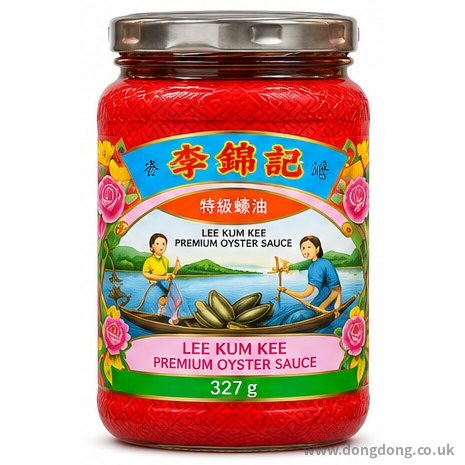
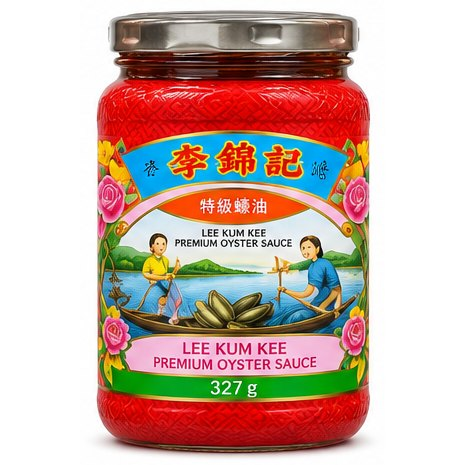
李锦记旧庄特级蚝油 327g 换实拍挤瓶图，补中英文品牌
Claude-Session: https://claude.ai/code/session_01EapkdAZuY1J5DZKGNmtVd8

Changed region(s): [[0.6624, 0.9634, 0.9935, 0.9935], [0.4215, 0.3312, 0.4516, 0.3613]]

diff --git a/classic.html b/classic.html
@@ -1064,8 +1064,8 @@ const PRODUCTS_RAW=[
  {"c": "oyster", "zh": "李锦记熊猫牌鲜味蚝油", "en": "Lee Kum Kee Panda Oyster Sauce", "spec": "255g", "price": 1.79, "img": "img/ph_lkk_panda255.jpg"},
  {"c": "oyster", "zh": "李锦记熊猫牌鲜味蚝油", "en": "Lee Kum Kee Panda Oyster Sauce", "spec": "510g", "price": 2.49, "img": "img/ph_lkk_panda510.jpg"},
  {"c": "oyster", "zh": "李锦记熊猫牌鲜味蚝油", "en": "Lee Kum Kee Panda Oyster Sauce", "spec": "907g", "price": 3.89, "img": "img/ph_lkk_panda907.jpg"},
- {"c": "oyster", "zh": "李锦记旧庄特级蚝油", "en": "Lee Kum Kee Premium Oyster Sauce", "spec": "327g", "price": 3.29, "img": "img/ph_lkk_oy327.jpg"},
- {"c": "oyster", "zh": "李锦记旧庄特级蚝油", "en": "Lee Kum Kee Premium Oyster Sauce", "spec": "510g", "price": 4.49, "img": "img/ph_lkk_oy510.jpg"},
+ {"c": "oyster", "zh": "李锦记 Lee Kum Kee 旧庄特级蚝油", "en": "Lee Kum Kee 李锦记 Premium Oyster Sauce", "spec": "327g", "price": 3.29, "img": "img/hd_lkk_oy327.jpg"},
+ {"c": "oyster", "zh": "李锦记 Lee Kum Kee 旧庄特级蚝油", "en": "Lee Kum Kee 李锦记 Premium Oyster Sauce", "spec": "510g", "price": 4.49, "img": "img/ph_lkk_oy510.jpg"},
  {"c": "oyster", "zh": "海天招牌鲜蚝油", "en": "Haday Signature Oyster Sauce", "spec": "635g", "price": 2.29, "img": "img/ph_hd_oysig.jpg"},
  {"c": "oyster", "zh": "海天黑松露素蚝油", "en": "Haday Black Truffle Vegetarian Oyster Sauce", "spec": "630g", "price": 3.29, "img": "img/ph_hd_truffle.jpg"},
  {"c": "oyster", "zh": "海天香菇素食蚝油", "en": "Haday Vegetarian Mushroom Oyster Sauce", "spec": "635g", "price": 1.99, "img": "img/ph_hd_vegoy.jpg"},
@@ -2520,7 +2520,7 @@ function priceTag(p){const u=sp(p.unit||defUnit(p));
   if(!onSale(p))return `<div class="tag"><span class="price">${money(p.price)}</span><span class="unit">${u}</span></div>`;
   return `<div class="tag saletag"><span class="price">${money(p.price)}</span><span class="was">was ${money(p.was)}</span><span class="save">Save ${pct(p)}%${p.bbd?` · BBD ${p.bbd}`:p.until?` · until ${p.until}`:""}</span></div>`;}
 // 搜索别名：拼音、英文常用叫法 → 商品名里的字
-const ALIAS={"棒点":["bangdian","春卷"],"wanya":["虾"],"superior food":["豉汁"],"kokoro":["寿司米","东北大米"],"bdmp":["虾米"],"clear seas":["大虾仁"],"tiger tiger":["天妇罗"],"nikko":["灌面"],"金龙":["golden dragon"],"板蓝根":["banlangen","isatis"],"感冒灵":["ganmaoling","999","cold"],"润喉糖":["清润糖","throat"],"素面":["somyeon","somen"],"sempio":["清净园","샘표"],"乌冬":["udon"],"元丰":["yuan feng","线面"],"master chilli":["白象","火鸡"],"大竹叶":["粽叶","竹叶"],"冠之王":["正丰","银耳"],"白花菇":["香菇","shiitake"],"乐福":["荣富","fortune"],"切辣椒":["辣椒段","chopped chilli"],"荣富":["fortune"],"榮富":["fortune"],"金冠":["golden crown","金丝蜜枣"],"雪耳":["银耳","white fungus"],"白木耳":["银耳"],"粽叶":["竹叶","bamboo leaves"],"卤料":["卤水","braising"],"黑鸭":["black duck"],"翠宏":["cuihong"],"卤味":["卤料","卤水"],"寿桃":["sau tao"],"光丰":["guangfeng"],"上真":["ontrue"],"永真":["ontrue"],"碱水面":["alkaline"],"健水面":["碱水面"],"冷面":["naengmyeon","cold noodle"],"naengmyeon":["冷面"],"浣熊":["neoguri"],"udon":["乌冬"],"乌冬":["udon"],"荞麦面":["soba","buckwheat"],"neoguri":["浣熊"],"双塔":["shuangta"],"味之源":["weizhiyuan"],"粉丝":["vermicelli"],"米粉":["rice stick","rice noodle","vermicelli"],"河粉":["pho","rice noodle"],"河粉":["pho"],"pho":["河粉"],"acecook":["好好","hao hao"],"越南面":["vifon","omachi","acecook","hao hao"],"顶味":["nikko"],"兴盛":["prosperity"],"拉面":["ramen","lanzhou"],"挂面":["noodles"],"soba":["荞麦"],"toomba":["Toomba"],"炸酱面":["jjajang"],"jjajangmyeon":["jjajang"],"chapagetti":["jjajang"],"turkey noodles":["buldak"],"fire noodles":["buldak"],"京都面":["kyoto"],"鲜面":["鲜切面","fresh noodle"],"生面":["fresh noodle"],"纤体茶":["slinmy"],"减肥茶":["slinmy"],"slimmy":["slinmy"],"中原":["g7"],"trung nguyen":["g7"],"cong caphe":["cộng"],"cong":["cộng"],"共咖啡":["cộng"],"durewon":["두레원"],"拉茶":["teh tarik"],"奶茶":["teh tarik","milk tea"],"菊花":["chrysanthemum"],"菊花茶":["chrysanthemum"],"莲香楼":["lin heung"],"lin heung lau":["莲香楼"],"三金":["sanjin"],"西瓜霜":["watermelon frost"],"润喉糖":["润喉片","lozenge"],"喉片":["润喉片"],"lozenges":["lozenge"],"水煮肉":["水煮肉片"],"shuizhu":["shui zhu"],"保鲜袋":["保鲜罩","保鲜膜"],"保鲜套":["保鲜罩"],"食物罩":["保鲜罩"],"bowl cover":["wrap cover"],"food cover":["wrap cover"],"海绵":["sponge"],"洗碗布":["sponge","百洁布"],"抹布":["sponge","百洁布"],"勺子":["汤匙","汤勺"],"调羹":["汤匙","汤勺"],"汤匙":["汤勺"],"汤勺":["汤匙"],"儿童筷":["学习筷"],"训练筷":["学习筷"],"kids chopsticks":["training chopsticks"],"仙女":["fairy"],"洗碗液":["洗洁精"],"washing up":["washing-up"],"海飞丝":["head & shoulders"],"head and shoulders":["head & shoulders"],"洗发水":["shampoo"],
+const ALIAS={"旧庄":["舊庄","premium oyster","蚝油"],"耗油":["蚝油"],"棒点":["bangdian","春卷"],"wanya":["虾"],"superior food":["豉汁"],"kokoro":["寿司米","东北大米"],"bdmp":["虾米"],"clear seas":["大虾仁"],"tiger tiger":["天妇罗"],"nikko":["灌面"],"金龙":["golden dragon"],"板蓝根":["banlangen","isatis"],"感冒灵":["ganmaoling","999","cold"],"润喉糖":["清润糖","throat"],"素面":["somyeon","somen"],"sempio":["清净园","샘표"],"乌冬":["udon"],"元丰":["yuan feng","线面"],"master chilli":["白象","火鸡"],"大竹叶":["粽叶","竹叶"],"冠之王":["正丰","银耳"],"白花菇":["香菇","shiitake"],"乐福":["荣富","fortune"],"切辣椒":["辣椒段","chopped chilli"],"荣富":["fortune"],"榮富":["fortune"],"金冠":["golden crown","金丝蜜枣"],"雪耳":["银耳","white fungus"],"白木耳":["银耳"],"粽叶":["竹叶","bamboo leaves"],"卤料":["卤水","braising"],"黑鸭":["black duck"],"翠宏":["cuihong"],"卤味":["卤料","卤水"],"寿桃":["sau tao"],"光丰":["guangfeng"],"上真":["ontrue"],"永真":["ontrue"],"碱水面":["alkaline"],"健水面":["碱水面"],"冷面":["naengmyeon","cold noodle"],"naengmyeon":["冷面"],"浣熊":["neoguri"],"udon":["乌冬"],"乌冬":["udon"],"荞麦面":["soba","buckwheat"],"neoguri":["浣熊"],"双塔":["shuangta"],"味之源":["weizhiyuan"],"粉丝":["vermicelli"],"米粉":["rice stick","rice noodle","vermicelli"],"河粉":["pho","rice noodle"],"河粉":["pho"],"pho":["河粉"],"acecook":["好好","hao hao"],"越南面":["vifon","omachi","acecook","hao hao"],"顶味":["nikko"],"兴盛":["prosperity"],"拉面":["ramen","lanzhou"],"挂面":["noodles"],"soba":["荞麦"],"toomba":["Toomba"],"炸酱面":["jjajang"],"jjajangmyeon":["jjajang"],"chapagetti":["jjajang"],"turkey noodles":["buldak"],"fire noodles":["buldak"],"京都面":["kyoto"],"鲜面":["鲜切面","fresh noodle"],"生面":["fresh noodle"],"纤体茶":["slinmy"],"减肥茶":["slinmy"],"slimmy":["slinmy"],"中原":["g7"],"trung nguyen":["g7"],"cong caphe":["cộng"],"cong":["cộng"],"共咖啡":["cộng"],"durewon":["두레원"],"拉茶":["teh tarik"],"奶茶":["teh tarik","milk tea"],"菊花":["chrysanthemum"],"菊花茶":["chrysanthemum"],"莲香楼":["lin heung"],"lin heung lau":["莲香楼"],"三金":["sanjin"],"西瓜霜":["watermelon frost"],"润喉糖":["润喉片","lozenge"],"喉片":["润喉片"],"lozenges":["lozenge"],"水煮肉":["水煮肉片"],"shuizhu":["shui zhu"],"保鲜袋":["保鲜罩","保鲜膜"],"保鲜套":["保鲜罩"],"食物罩":["保鲜罩"],"bowl cover":["wrap cover"],"food cover":["wrap cover"],"海绵":["sponge"],"洗碗布":["sponge","百洁布"],"抹布":["sponge","百洁布"],"勺子":["汤匙","汤勺"],"调羹":["汤匙","汤勺"],"汤匙":["汤勺"],"汤勺":["汤匙"],"儿童筷":["学习筷"],"训练筷":["学习筷"],"kids chopsticks":["training chopsticks"],"仙女":["fairy"],"洗碗液":["洗洁精"],"washing up":["washing-up"],"海飞丝":["head & shoulders"],"head and shoulders":["head & shoulders"],"洗发水":["shampoo"],
  /* 品牌别名：中文牌子↔英文/拼音 */"梅宝":["mae ploy"],"美宝":["mae ploy"],"美极":["maggi"],"富维克":["volvic"],"葡萄适":["lucozade"],"艾禾美":["arm & hammer"],"多福":["otafuku"],"希杰":["cj "],"中原":["g7"],"摩咕":["mogu"],"安来利":["aroy-d"],"泰莱":["tate"],"味丰":["vifon"],"万字":["kikkoman"],"龟甲万":["kikkoman"],"可口可乐":["coca-cola", "coke"],"日清":["nissin"],"丘比":["kewpie"],"红牛":["red bull"],"朝日":["asahi"],"三得利":["suntory"],"胜狮":["singha"],"虎牌":["tiger"],"小黄人":["minions"],"lijinji":["李锦记"],"kangshifu":["康师傅"],"ksf":["康师傅"],"tongyi":["统一"],"uni-president":["统一"],"president":["统一"],"jiaduobao":["加多宝"],"anjing":["安井"],"sinian":["思念"],"qiaqia":["洽洽"],"xufuji":["徐福记"],"haoliyou":["好丽友"],"nongxin":["农心"],"sanyang":["三养"],"bipinge":["必品阁"],"dongya":["东亚"],"kangle":["康乐"],"jinlong":["金龙"],"xiangyuan":["香源"],"hdl":["海底捞"],"vitasoy":["维他"],"weita":["维他"],"yeos":["杨协成"],"yeo":["杨协成"],"yangxiecheng":["杨协成"],"prb":["珠江桥"],"zhujiangqiao":["珠江桥"],"taitaile":["太太乐"],"knorr":["家乐"],"jiale":["家乐"],"budaoweng":["不倒翁"],"chuqianyiding":["出前一丁"],"tofuking":["北佬"],"beilao":["北佬"],"wingon":["永安"],"yongan":["永安"],"dongfanglong":["东方龙"],"chaoqun":["超群"],"diyijia":["第一家"],"springhome":["第一家"],"xianfeng":["鲜锋"],"huangshanghuang":["皇上皇"],"kims":["皇上皇"],"wangxiaolu":["王小卤"],"malawangzi":["麻辣王子"],"liziqi":["李子柒"],"akuan":["阿宽"],"tangdaren":["汤达人"],"dahongpao":["大红袍"],"xiaotiane":["小天鹅"],"dezhuang":["德庄"],"mingyang":["名扬"],"wangshouyi":["王守义"],"shisanxiang":["十三香"],"weihaomei":["味好美"],"liuyuexian":["六月鲜"],"xinhe":["六月鲜"],"jinlan":["金兰"],"gongyan":["工研"],"yimei":["义美"],"imei":["义美"],"dabaitu":["大白兔"],"xizhilang":["喜之郎"],"lays":["乐事"],"leshi":["乐事"],"yuanqi":["元气森林"],"genki":["元气森林"],"yuanqisenlin":["元气森林"],"dongfangshuye":["东方树叶"],"naixue":["奈雪"],"hongxing":["红星"],"zhenlu":["真露"],"qiubi":["丘比"],"weizhisu":["味之素"],"haoshi":["好侍"],"sb":["s&b"],"weida":["维达"],"jierou":["洁柔"],"libai":["立白"],"liangquanqimei":["粮全其美"],"meixin":["美心"],"kungfu":["功夫"],"gongfu":["功夫"],"qijia":["七甲"],"youboqi":["优波奇"],"yanjinpuzi":["盐津铺子"],"huangfeihong":["黄飞红"],"taiping":["太平"],"shuanghu":["双虎"],"laohu":["老虎牌"],"feie":["飞鹅"],"jinyu":["金鱼"],"fanchuan":["帆船"],"luckyboat":["帆船"],"qinglong":["青龙"],"lvlong":["绿龙"],"baisha":["白鲨"],"sanxiang":["三象"],"taigu":["太古"],"nanzi":["南字"],"wandefu":["万德福"],"meilin":["梅林"],"maling":["梅林"],"shouxinggong":["寿星公"],"yonghe":["永和"],"nianciyan":["念慈菴"],"pipagao":["枇杷膏"],"guxiangnong":["故乡浓"],"qiyuexiang":["七月香"],"jinbaihe":["金百合"],"shangzhen":["上真"],"xingsheng":["兴盛"],"maiayi":["麦阿姨"],"wanjiang":["丸将"],"wj":["丸将"],"baijia":["白家"],"guangyang":["光阳"],"zhushu":["竹树牌"],"fuzi":["福字"],"nanxiang":["南翔"],"sanquan":["三全"],"shuanghui":["双汇"],"sh":["双汇"],"qt":["桥头"],"maeploy":["mae ploy"],"mogumogu":["mogu mogu"],"kimson":["kim son"],"firstchoice":["first choice"],"goldendragon":["金龙"],"eastasia":["东亚"],"masterkong":["康师傅"],
  "zha suan":["炸蒜"],"zhasuan":["炸蒜"],"suan":["蒜"],"nian gao":["年糕"],"niangao":["年糕"],
  "玉米蓉":["粟米蓉"],"玉米羹":["粟米蓉"],"粟米羹":["粟米蓉"],"玉米浓汤":["粟米蓉"],"玉米糊":["粟米蓉"],"creamed":["cream style"],"creamedcorn":["cream style sweetcorn"],"creamcorn":["cream style sweetcorn"],"corn soup":["粟米蓉"],

diff --git a/index.html b/index.html
@@ -1245,8 +1245,8 @@ const PRODUCTS_RAW=[
  {"c": "oyster", "zh": "李锦记熊猫牌鲜味蚝油", "en": "Lee Kum Kee Panda Oyster Sauce", "spec": "255g", "price": 1.79, "img": "img/ph_lkk_panda255.jpg"},
  {"c": "oyster", "zh": "李锦记熊猫牌鲜味蚝油", "en": "Lee Kum Kee Panda Oyster Sauce", "spec": "510g", "price": 2.49, "img": "img/ph_lkk_panda510.jpg"},
  {"c": "oyster", "zh": "李锦记熊猫牌鲜味蚝油", "en": "Lee Kum Kee Panda Oyster Sauce", "spec": "907g", "price": 3.89, "img": "img/ph_lkk_panda907.jpg"},
- {"c": "oyster", "zh": "李锦记旧庄特级蚝油", "en": "Lee Kum Kee Premium Oyster Sauce", "spec": "327g", "price": 3.29, "img": "img/ph_lkk_oy327.jpg"},
- {"c": "oyster", "zh": "李锦记旧庄特级蚝油", "en": "Lee Kum Kee Premium Oyster Sauce", "spec": "510g", "price": 4.49, "img": "img/ph_lkk_oy510.jpg"},
+ {"c": "oyster", "zh": "李锦记 Lee Kum Kee 旧庄特级蚝油", "en": "Lee Kum Kee 李锦记 Premium Oyster Sauce", "spec": "327g", "price": 3.29, "img": "img/hd_lkk_oy327.jpg"},
+ {"c": "oyster", "zh": "李锦记 Lee Kum Kee 旧庄特级蚝油", "en": "Lee Kum Kee 李锦记 Premium Oyster Sauce", "spec": "510g", "price": 4.49, "img": "img/ph_lkk_oy510.jpg"},
  {"c": "oyster", "zh": "海天招牌鲜蚝油", "en": "Haday Signature Oyster Sauce", "spec": "635g", "price": 2.29, "img": "img/ph_hd_oysig.jpg"},
  {"c": "oyster", "zh": "海天黑松露素蚝油", "en": "Haday Black Truffle Vegetarian Oyster Sauce", "spec": "630g", "price": 3.29, "img": "img/ph_hd_truffle.jpg"},
  {"c": "oyster", "zh": "海天香菇素食蚝油", "en": "Haday Vegetarian Mushroom Oyster Sauce", "spec": "635g", "price": 1.99, "img": "img/ph_hd_vegoy.jpg"},
@@ -2701,7 +2701,7 @@ function priceTag(p){const u=sp(p.unit||defUnit(p));
   if(!onSale(p))return `<div class="tag"><span class="price">${money(p.price)}</span><span class="unit">${u}</span></div>`;
   return `<div class="tag saletag"><span class="price">${money(p.price)}</span><span class="was">was ${money(p.was)}</span><span class="save">Save ${pct(p)}%${p.bbd?` · BBD ${p.bbd}`:p.until?` · until ${p.until}`:""}</span></div>`;}
 // 搜索别名：拼音、英文常用叫法 → 商品名里的字
-const ALIAS={"棒点":["bangdian","春卷"],"wanya":["虾"],"superior food":["豉汁"],"kokoro":["寿司米","东北大米"],"bdmp":["虾米"],"clear seas":["大虾仁"],"tiger tiger":["天妇罗"],"nikko":["灌面"],"金龙":["golden dragon"],"板蓝根":["banlangen","isatis"],"感冒灵":["ganmaoling","999","cold"],"润喉糖":["清润糖","throat"],"素面":["somyeon","somen"],"sempio":["清净园","샘표"],"乌冬":["udon"],"元丰":["yuan feng","线面"],"master chilli":["白象","火鸡"],"大竹叶":["粽叶","竹叶"],"冠之王":["正丰","银耳"],"白花菇":["香菇","shiitake"],"乐福":["荣富","fortune"],"切辣椒":["辣椒段","chopped chilli"],"荣富":["fortune"],"榮富":["fortune"],"金冠":["golden crown","金丝蜜枣"],"雪耳":["银耳","white fungus"],"白木耳":["银耳"],"粽叶":["竹叶","bamboo leaves"],"卤料":["卤水","braising"],"黑鸭":["black duck"],"翠宏":["cuihong"],"卤味":["卤料","卤水"],"寿桃":["sau tao"],"光丰":["guangfeng"],"上真":["ontrue"],"永真":["ontrue"],"碱水面":["alkaline"],"健水面":["碱水面"],"冷面":["naengmyeon","cold noodle"],"naengmyeon":["冷面"],"浣熊":["neoguri"],"udon":["乌冬"],"乌冬":["udon"],"荞麦面":["soba","buckwheat"],"neoguri":["浣熊"],"双塔":["shuangta"],"味之源":["weizhiyuan"],"粉丝":["vermicelli"],"米粉":["rice stick","rice noodle","vermicelli"],"河粉":["pho","rice noodle"],"河粉":["pho"],"pho":["河粉"],"acecook":["好好","hao hao"],"越南面":["vifon","omachi","acecook","hao hao"],"顶味":["nikko"],"兴盛":["prosperity"],"拉面":["ramen","lanzhou"],"挂面":["noodles"],"soba":["荞麦"],"toomba":["Toomba"],"炸酱面":["jjajang"],"jjajangmyeon":["jjajang"],"chapagetti":["jjajang"],"turkey noodles":["buldak"],"fire noodles":["buldak"],"京都面":["kyoto"],"鲜面":["鲜切面","fresh noodle"],"生面":["fresh noodle"],"纤体茶":["slinmy"],"减肥茶":["slinmy"],"slimmy":["slinmy"],"中原":["g7"],"trung nguyen":["g7"],"cong caphe":["cộng"],"cong":["cộng"],"共咖啡":["cộng"],"durewon":["두레원"],"拉茶":["teh tarik"],"奶茶":["teh tarik","milk tea"],"菊花":["chrysanthemum"],"菊花茶":["chrysanthemum"],"莲香楼":["lin heung"],"lin heung lau":["莲香楼"],"三金":["sanjin"],"西瓜霜":["watermelon frost"],"润喉糖":["润喉片","lozenge"],"喉片":["润喉片"],"lozenges":["lozenge"],"水煮肉":["水煮肉片"],"shuizhu":["shui zhu"],"保鲜袋":["保鲜罩","保鲜膜"],"保鲜套":["保鲜罩"],"食物罩":["保鲜罩"],"bowl cover":["wrap cover"],"food cover":["wrap cover"],"海绵":["sponge"],"洗碗布":["sponge","百洁布"],"抹布":["sponge","百洁布"],"勺子":["汤匙","汤勺"],"调羹":["汤匙","汤勺"],"汤匙":["汤勺"],"汤勺":["汤匙"],"儿童筷":["学习筷"],"训练筷":["学习筷"],"kids chopsticks":["training chopsticks"],"仙女":["fairy"],"洗碗液":["洗洁精"],"washing up":["washing-up"],"海飞丝":["head & shoulders"],"head and shoulders":["head & shoulders"],"洗发水":["shampoo"],
+const ALIAS={"旧庄":["舊庄","premium oyster","蚝油"],"耗油":["蚝油"],"棒点":["bangdian","春卷"],"wanya":["虾"],"superior food":["豉汁"],"kokoro":["寿司米","东北大米"],"bdmp":["虾米"],"clear seas":["大虾仁"],"tiger tiger":["天妇罗"],"nikko":["灌面"],"金龙":["golden dragon"],"板蓝根":["banlangen","isatis"],"感冒灵":["ganmaoling","999","cold"],"润喉糖":["清润糖","throat"],"素面":["somyeon","somen"],"sempio":["清净园","샘표"],"乌冬":["udon"],"元丰":["yuan feng","线面"],"master chilli":["白象","火鸡"],"大竹叶":["粽叶","竹叶"],"冠之王":["正丰","银耳"],"白花菇":["香菇","shiitake"],"乐福":["荣富","fortune"],"切辣椒":["辣椒段","chopped chilli"],"荣富":["fortune"],"榮富":["fortune"],"金冠":["golden crown","金丝蜜枣"],"雪耳":["银耳","white fungus"],"白木耳":["银耳"],"粽叶":["竹叶","bamboo leaves"],"卤料":["卤水","braising"],"黑鸭":["black duck"],"翠宏":["cuihong"],"卤味":["卤料","卤水"],"寿桃":["sau tao"],"光丰":["guangfeng"],"上真":["ontrue"],"永真":["ontrue"],"碱水面":["alkaline"],"健水面":["碱水面"],"冷面":["naengmyeon","cold noodle"],"naengmyeon":["冷面"],"浣熊":["neoguri"],"udon":["乌冬"],"乌冬":["udon"],"荞麦面":["soba","buckwheat"],"neoguri":["浣熊"],"双塔":["shuangta"],"味之源":["weizhiyuan"],"粉丝":["vermicelli"],"米粉":["rice stick","rice noodle","vermicelli"],"河粉":["pho","rice noodle"],"河粉":["pho"],"pho":["河粉"],"acecook":["好好","hao hao"],"越南面":["vifon","omachi","acecook","hao hao"],"顶味":["nikko"],"兴盛":["prosperity"],"拉面":["ramen","lanzhou"],"挂面":["noodles"],"soba":["荞麦"],"toomba":["Toomba"],"炸酱面":["jjajang"],"jjajangmyeon":["jjajang"],"chapagetti":["jjajang"],"turkey noodles":["buldak"],"fire noodles":["buldak"],"京都面":["kyoto"],"鲜面":["鲜切面","fresh noodle"],"生面":["fresh noodle"],"纤体茶":["slinmy"],"减肥茶":["slinmy"],"slimmy":["slinmy"],"中原":["g7"],"trung nguyen":["g7"],"cong caphe":["cộng"],"cong":["cộng"],"共咖啡":["cộng"],"durewon":["두레원"],"拉茶":["teh tarik"],"奶茶":["teh tarik","milk tea"],"菊花":["chrysanthemum"],"菊花茶":["chrysanthemum"],"莲香楼":["lin heung"],"lin heung lau":["莲香楼"],"三金":["sanjin"],"西瓜霜":["watermelon frost"],"润喉糖":["润喉片","lozenge"],"喉片":["润喉片"],"lozenges":["lozenge"],"水煮肉":["水煮肉片"],"shuizhu":["shui zhu"],"保鲜袋":["保鲜罩","保鲜膜"],"保鲜套":["保鲜罩"],"食物罩":["保鲜罩"],"bowl cover":["wrap cover"],"food cover":["wrap cover"],"海绵":["sponge"],"洗碗布":["sponge","百洁布"],"抹布":["sponge","百洁布"],"勺子":["汤匙","汤勺"],"调羹":["汤匙","汤勺"],"汤匙":["汤勺"],"汤勺":["汤匙"],"儿童筷":["学习筷"],"训练筷":["学习筷"],"kids chopsticks":["training chopsticks"],"仙女":["fairy"],"洗碗液":["洗洁精"],"washing up":["washing-up"],"海飞丝":["head & shoulders"],"head and shoulders":["head & shoulders"],"洗发水":["shampoo"],
  /* 品牌别名：中文牌子↔英文/拼音 */"梅宝":["mae ploy"],"美宝":["mae ploy"],"美极":["maggi"],"富维克":["volvic"],"葡萄适":["lucozade"],"艾禾美":["arm & hammer"],"多福":["otafuku"],"希杰":["cj "],"中原":["g7"],"摩咕":["mogu"],"安来利":["aroy-d"],"泰莱":["tate"],"味丰":["vifon"],"万字":["kikkoman"],"龟甲万":["kikkoman"],"可口可乐":["coca-cola", "coke"],"日清":["nissin"],"丘比":["kewpie"],"红牛":["red bull"],"朝日":["asahi"],"三得利":["suntory"],"胜狮":["singha"],"虎牌":["tiger"],"小黄人":["minions"],"lijinji":["李锦记"],"kangshifu":["康师傅"],"ksf":["康师傅"],"tongyi":["统一"],"uni-president":["统一"],"president":["统一"],"jiaduobao":["加多宝"],"anjing":["安井"],"sinian":["思念"],"qiaqia":["洽洽"],"xufuji":["徐福记"],"haoliyou":["好丽友"],"nongxin":["农心"],"sanyang":["三养"],"bipinge":["必品阁"],"dongya":["东亚"],"kangle":["康乐"],"jinlong":["金龙"],"xiangyuan":["香源"],"hdl":["海底捞"],"vitasoy":["维他"],"weita":["维他"],"yeos":["杨协成"],"yeo":["杨协成"],"yangxiecheng":["杨协成"],"prb":["珠江桥"],"zhujiangqiao":["珠江桥"],"taitaile":["太太乐"],"knorr":["家乐"],"jiale":["家乐"],"budaoweng":["不倒翁"],"chuqianyiding":["出前一丁"],"tofuking":["北佬"],"beilao":["北佬"],"wingon":["永安"],"yongan":["永安"],"dongfanglong":["东方龙"],"chaoqun":["超群"],"diyijia":["第一家"],"springhome":["第一家"],"xianfeng":["鲜锋"],"huangshanghuang":["皇上皇"],"kims":["皇上皇"],"wangxiaolu":["王小卤"],"malawangzi":["麻辣王子"],"liziqi":["李子柒"],"akuan":["阿宽"],"tangdaren":["汤达人"],"dahongpao":["大红袍"],"xiaotiane":["小天鹅"],"dezhuang":["德庄"],"mingyang":["名扬"],"wangshouyi":["王守义"],"shisanxiang":["十三香"],"weihaomei":["味好美"],"liuyuexian":["六月鲜"],"xinhe":["六月鲜"],"jinlan":["金兰"],"gongyan":["工研"],"yimei":["义美"],"imei":["义美"],"dabaitu":["大白兔"],"xizhilang":["喜之郎"],"lays":["乐事"],"leshi":["乐事"],"yuanqi":["元气森林"],"genki":["元气森林"],"yuanqisenlin":["元气森林"],"dongfangshuye":["东方树叶"],"naixue":["奈雪"],"hongxing":["红星"],"zhenlu":["真露"],"qiubi":["丘比"],"weizhisu":["味之素"],"haoshi":["好侍"],"sb":["s&b"],"weida":["维达"],"jierou":["洁柔"],"libai":["立白"],"liangquanqimei":["粮全其美"],"meixin":["美心"],"kungfu":["功夫"],"gongfu":["功夫"],"qijia":["七甲"],"youboqi":["优波奇"],"yanjinpuzi":["盐津铺子"],"huangfeihong":["黄飞红"],"taiping":["太平"],"shuanghu":["双虎"],"laohu":["老虎牌"],"feie":["飞鹅"],"jinyu":["金鱼"],"fanchuan":["帆船"],"luckyboat":["帆船"],"qinglong":["青龙"],"lvlong":["绿龙"],"baisha":["白鲨"],"sanxiang":["三象"],"taigu":["太古"],"nanzi":["南字"],"wandefu":["万德福"],"meilin":["梅林"],"maling":["梅林"],"shouxinggong":["寿星公"],"yonghe":["永和"],"nianciyan":["念慈菴"],"pipagao":["枇杷膏"],"guxiangnong":["故乡浓"],"qiyuexiang":["七月香"],"jinbaihe":["金百合"],"shangzhen":["上真"],"xingsheng":["兴盛"],"maiayi":["麦阿姨"],"wanjiang":["丸将"],"wj":["丸将"],"baijia":["白家"],"guangyang":["光阳"],"zhushu":["竹树牌"],"fuzi":["福字"],"nanxiang":["南翔"],"sanquan":["三全"],"shuanghui":["双汇"],"sh":["双汇"],"qt":["桥头"],"maeploy":["mae ploy"],"mogumogu":["mogu mogu"],"kimson":["kim son"],"firstchoice":["first choice"],"goldendragon":["金龙"],"eastasia":["东亚"],"masterkong":["康师傅"],
  "zha suan":["炸蒜"],"zhasuan":["炸蒜"],"suan":["蒜"],"nian gao":["年糕"],"niangao":["年糕"],
  "玉米蓉":["粟米蓉"],"玉米羹":["粟米蓉"],"粟米羹":["粟米蓉"],"玉米浓汤":["粟米蓉"],"玉米糊":["粟米蓉"],"creamed":["cream style"],"creamedcorn":["cream style sweetcorn"],"creamcorn":["cream style sweetcorn"],"corn soup":["粟米蓉"],
